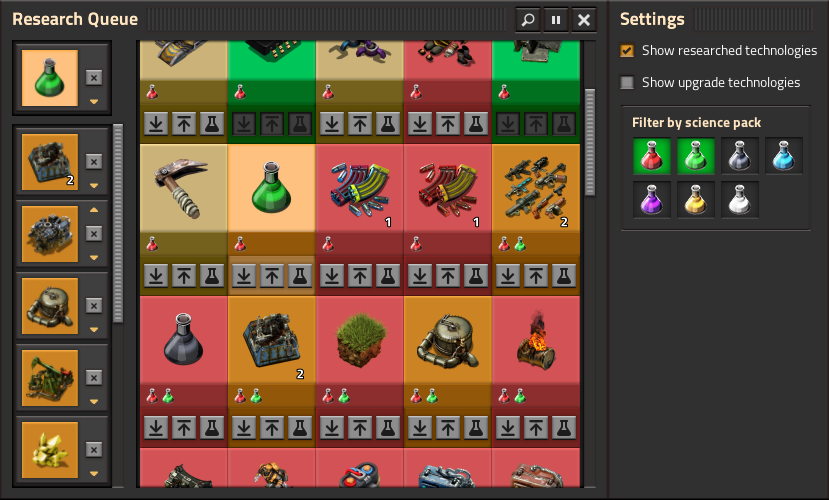
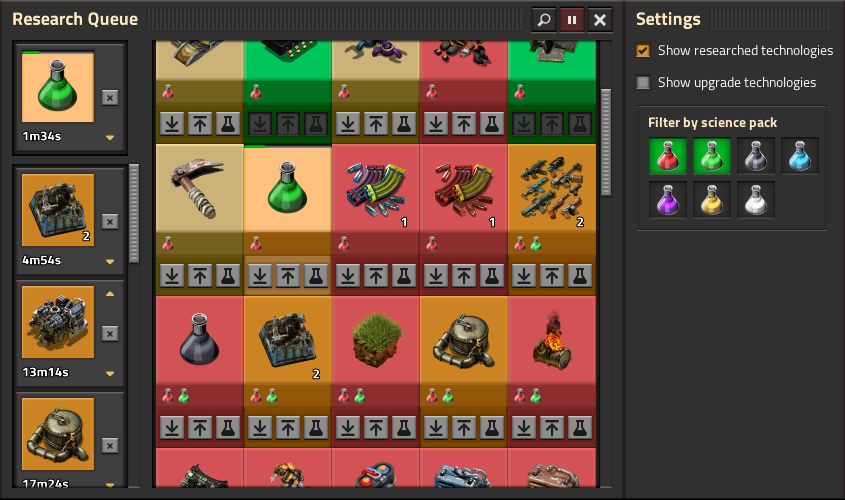
Update changelog, README, and screenshot

diff --git a/README.md b/README.md
@@ -12,6 +12,8 @@ This mod adds a new GUI for managing a queue of research that's easier to use an
 * Removing a technology from the queue will remove everything that has it as a prerequisite as well
 * Easily search and filter technologies to research
 * Pause the research queue while you plan, then unpause and watch your queue go
+* See estimated time to completion for technologies in the queue
+* Works with any modded technologies and science packs
 
 *Do not use the vanilla research queue with this mod*; the mod will most likely overwrite the vanilla queue. However, starting and cancelling research using the vanilla technology GUI will work fine with this mod. Starting a new research will add it to the start of the queue and unpause the queue. Cancelling the current research will pause the queue.
 
